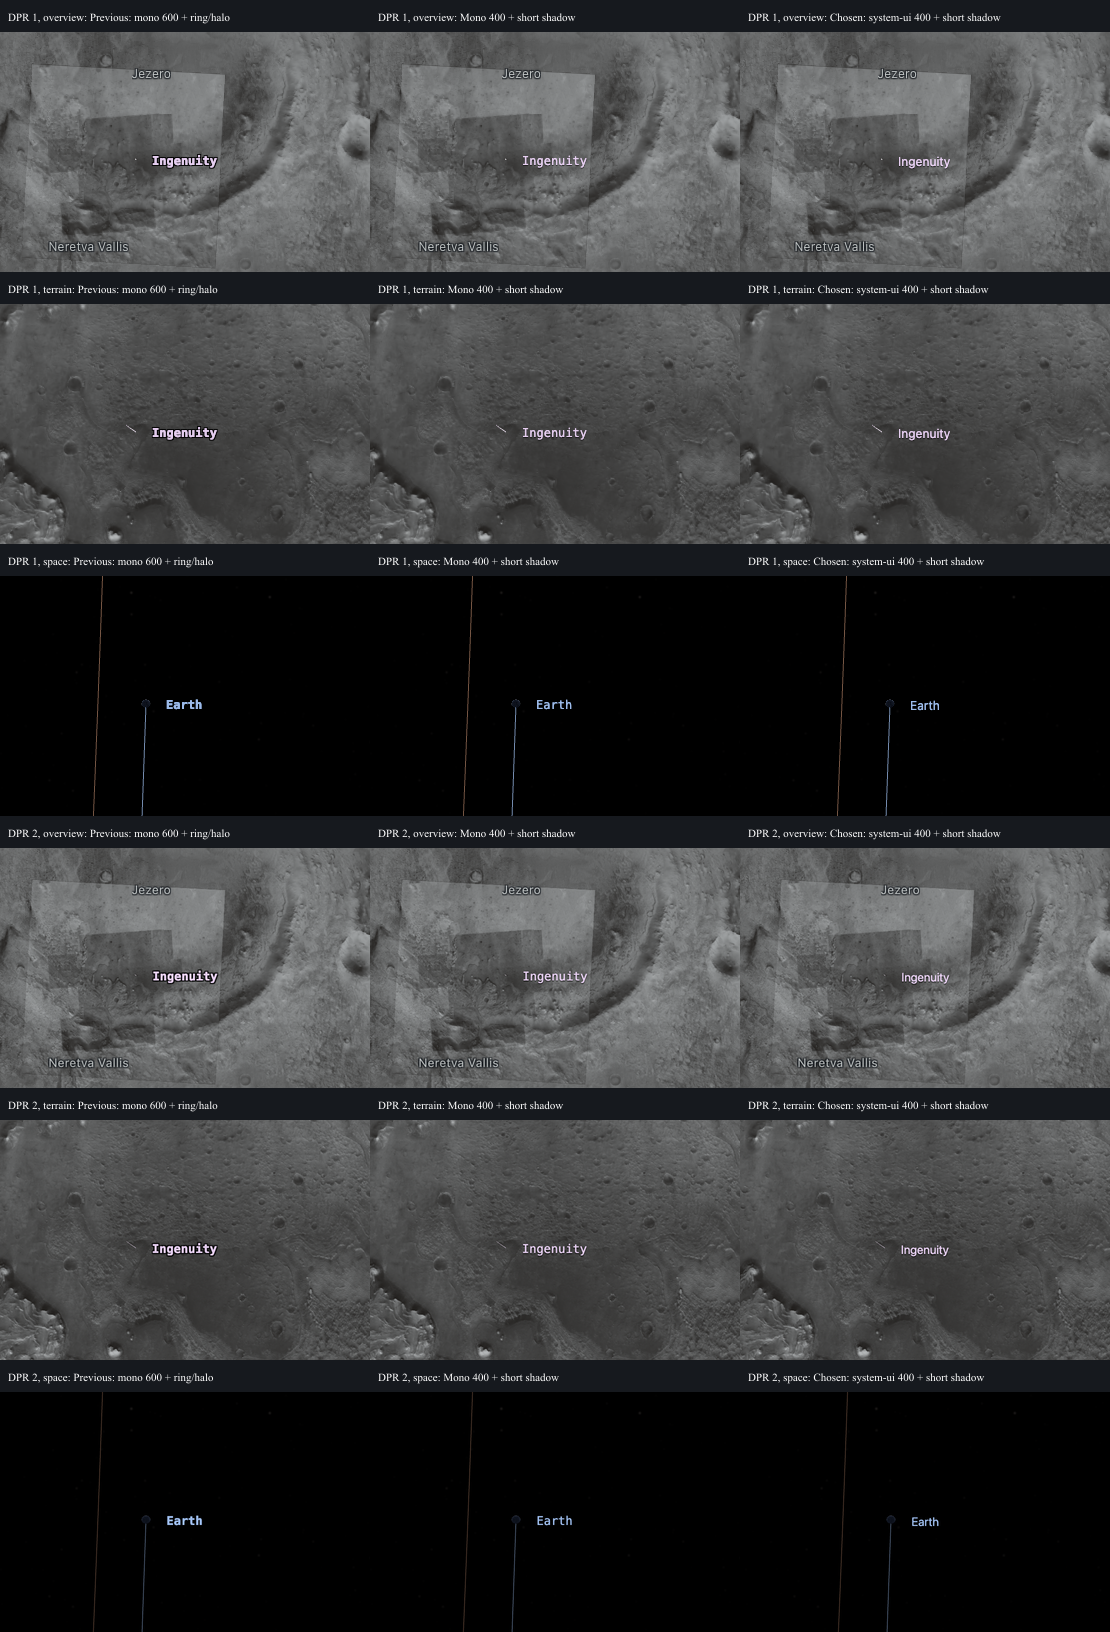
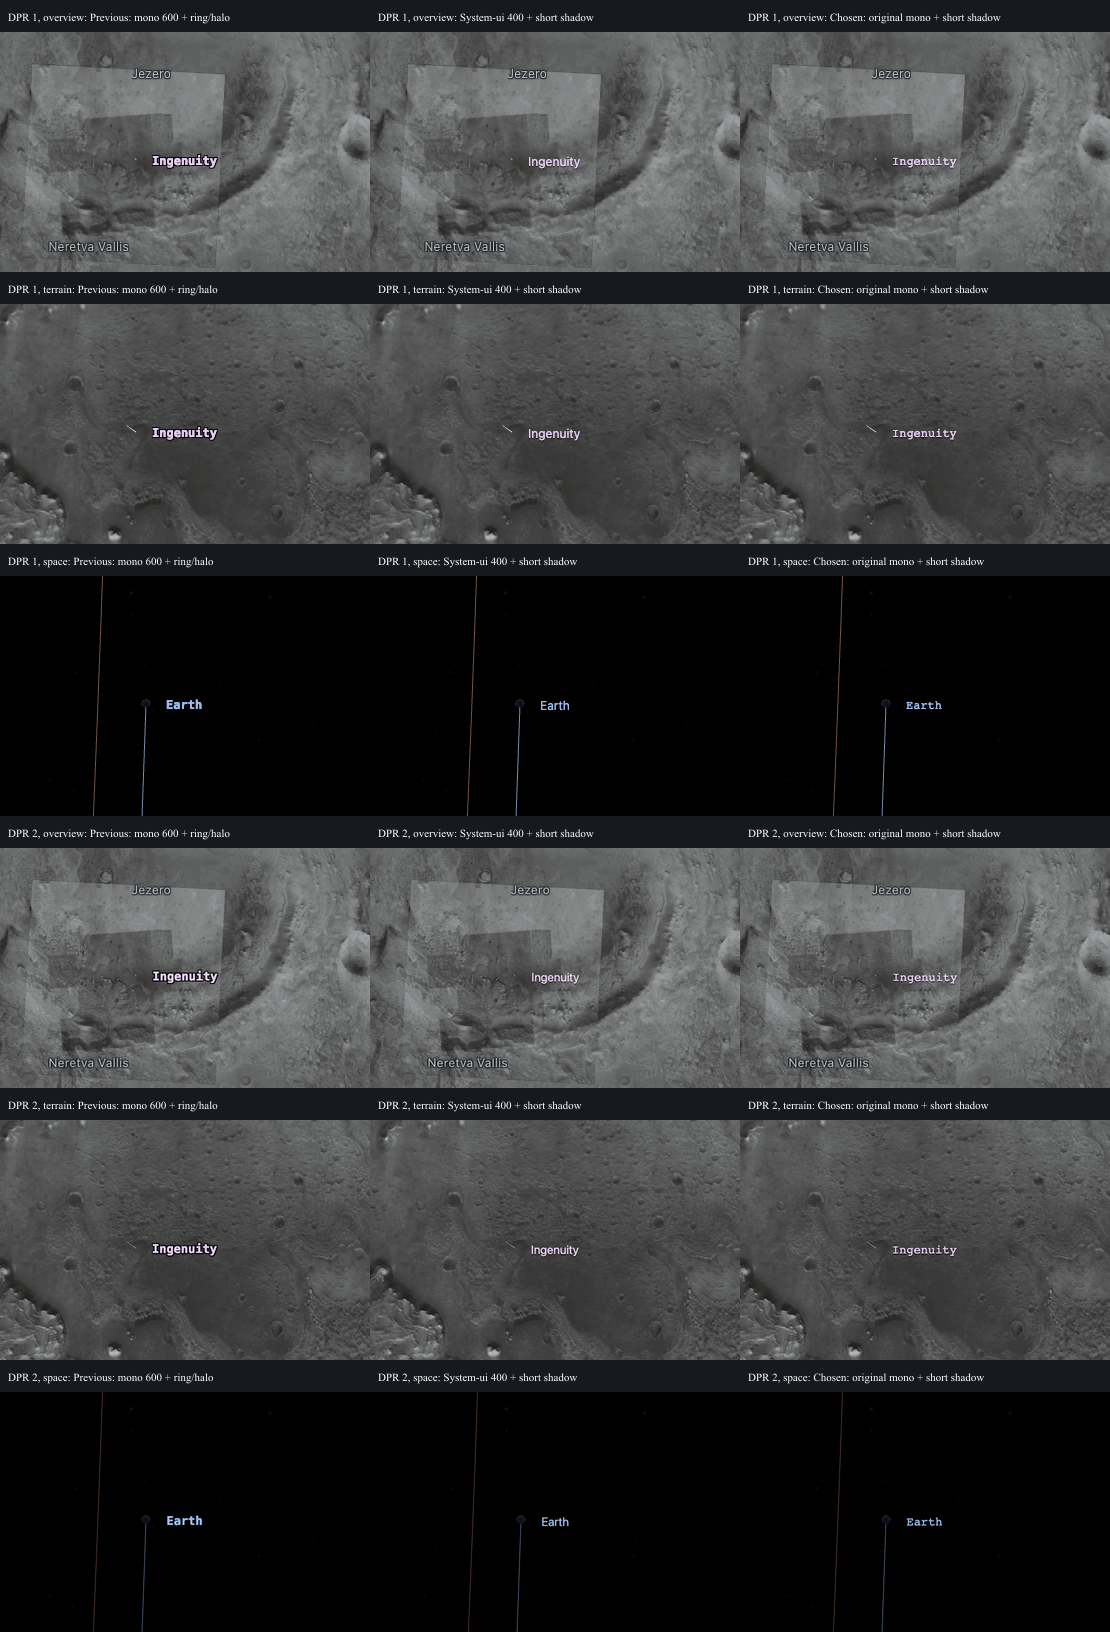
Restore original regular monospace body label font (#350)

diff --git a/packages/three/src/LabelManager.ts b/packages/three/src/LabelManager.ts
@@ -947,12 +947,12 @@ export class LabelManager {
   private createTextTexture(text: string, color: string, fontSize: number): THREE.CanvasTexture {
     const canvas = document.createElement('canvas');
     const ctx = canvas.getContext('2d')!;
-    // Regular proportional type keeps small body labels compact. One short,
+    // Keep the original regular monospace typeface. One short,
     // downward shadow supplies terrain contrast without thickening every edge.
     // Shadow lengths are CSS px × the device-pixel ratio.
     const px = this._pixelRatio;
     const setup = () => {
-      ctx.font = `400 ${fontSize}px system-ui, sans-serif`;
+      ctx.font = `${fontSize}px monospace`;
       ctx.textBaseline = 'top';
     };
     setup();

diff --git a/docs/validation/issue-350/README.md b/docs/validation/issue-350/README.md
@@ -43,21 +43,21 @@ the final typography is compared below.
 - **Bloom follows the drawing buffer.** The composer works at ratio 1 in device
   pixels, so its targets always equal the canvas. `setSize` is a no-op unless
   the buffer changed.
-- **Restrained body-label typography.** Regular `system-ui` 400 with one
+- **Restrained body-label typography.** The original regular `monospace` with one
   downward shadow (`#000000b3`, 1 CSS px blur and offset). The shadow is drawn
   separately so the fill lands once. Baseline opacity stays 0.92 (hover still
   brightens to 1). The four-offset ring and halo are removed.
 
-![Previous heavy monospace, light monospace, and chosen regular system-ui at actual size at DPR 1 and 2](body-label-typography.png)
+![Previous heavy monospace, system-ui, and chosen original regular monospace at actual size at DPR 1 and 2](body-label-typography.png)
 
 The latest real-monitor review found the previous semibold monospace and dark
-ring too chunky. This comparison uses the previous treatment, regular monospace
-with the short shadow, and regular system-ui with the same short shadow.
-Regular system-ui reduces Ingenuity's label box from about 74 to 56–61 CSS px
-(depending on DPR), without extra tracking or changing the font size. It looks
-cleaner beside Jezero and Neretva Vallis while retaining terrain contrast. The
-space rows use Earth's body label in the same catalog. DPR 2 captures are
-reduced to CSS dimensions for this actual-size comparison; inspect the original
+ring too chunky. The final style restores the original
+regular `monospace` font, with the lighter shadow and sharpness fixes retained.
+This comparison shows the previous heavy treatment, regular system-ui with the
+short shadow, and the chosen original monospace with the same short shadow.
+The overview includes Jezero and Neretva Vallis; the space rows use Earth's
+body label in the same catalog. DPR 2 captures are reduced to CSS dimensions
+for this actual-size comparison; inspect the original
 device-pixel captures from the acceptance run for sharpness.
 
 Reproduce with `node scripts/test-label-sharpness.mjs VIEWER_URL OUT_DIR --typography`.
